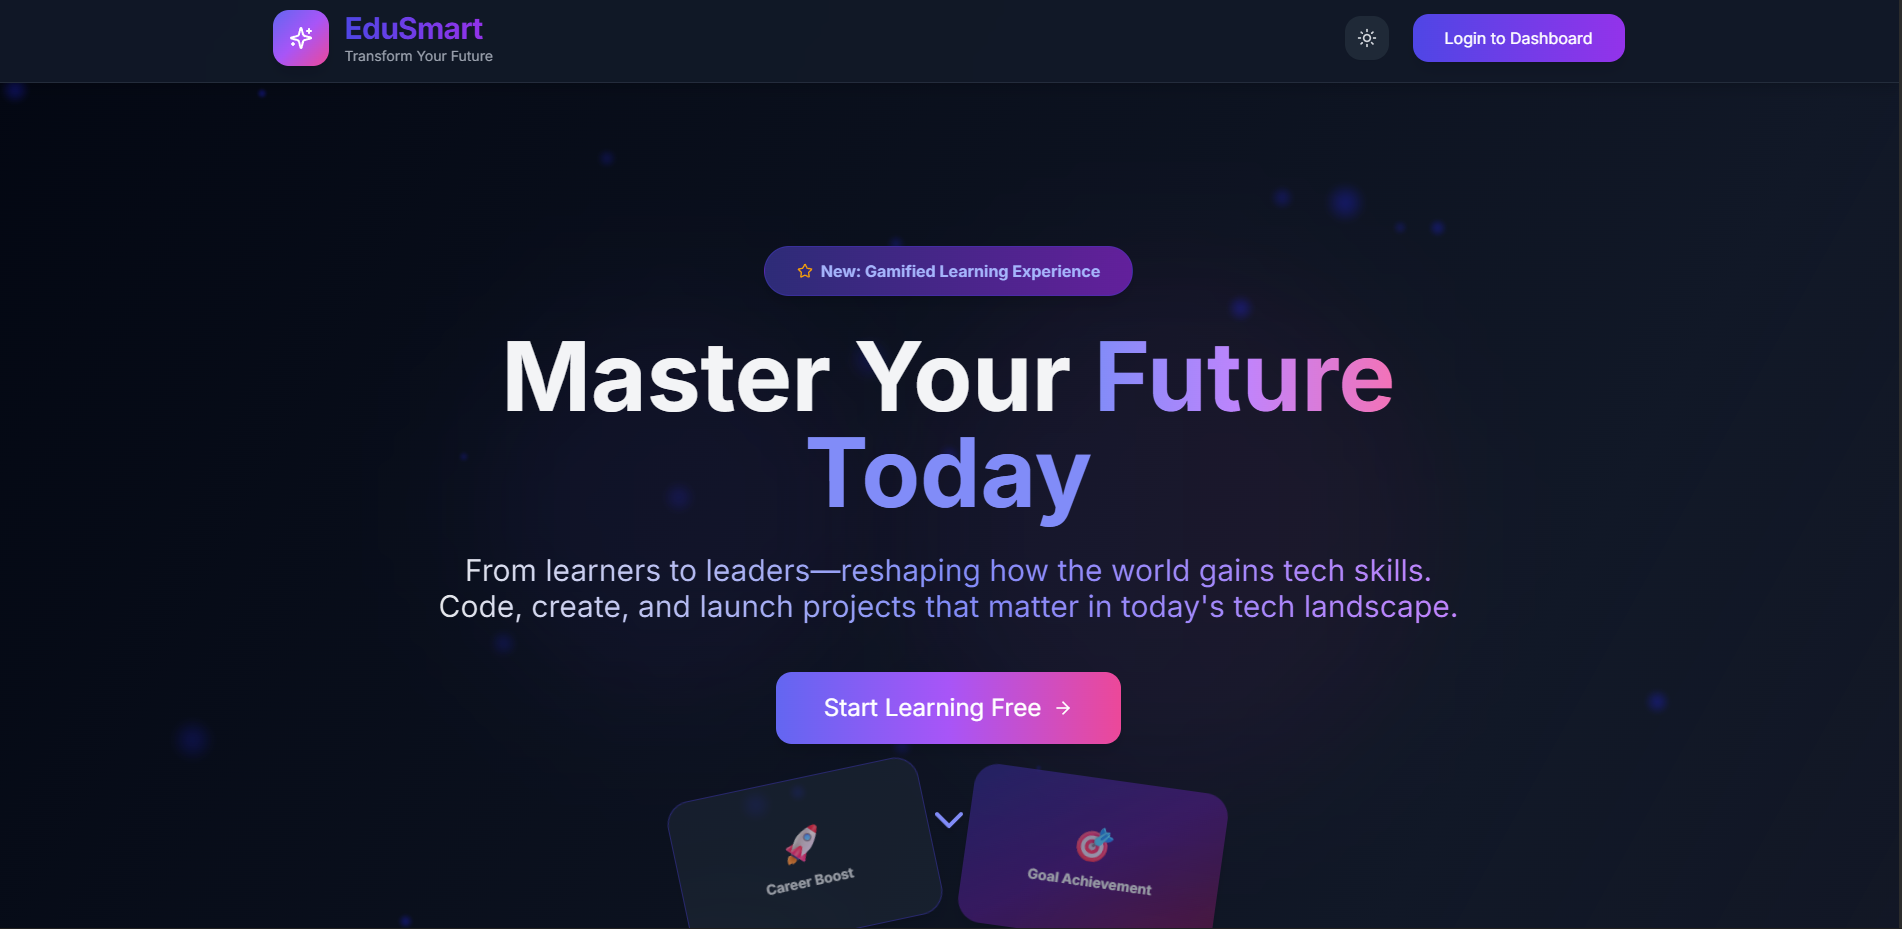
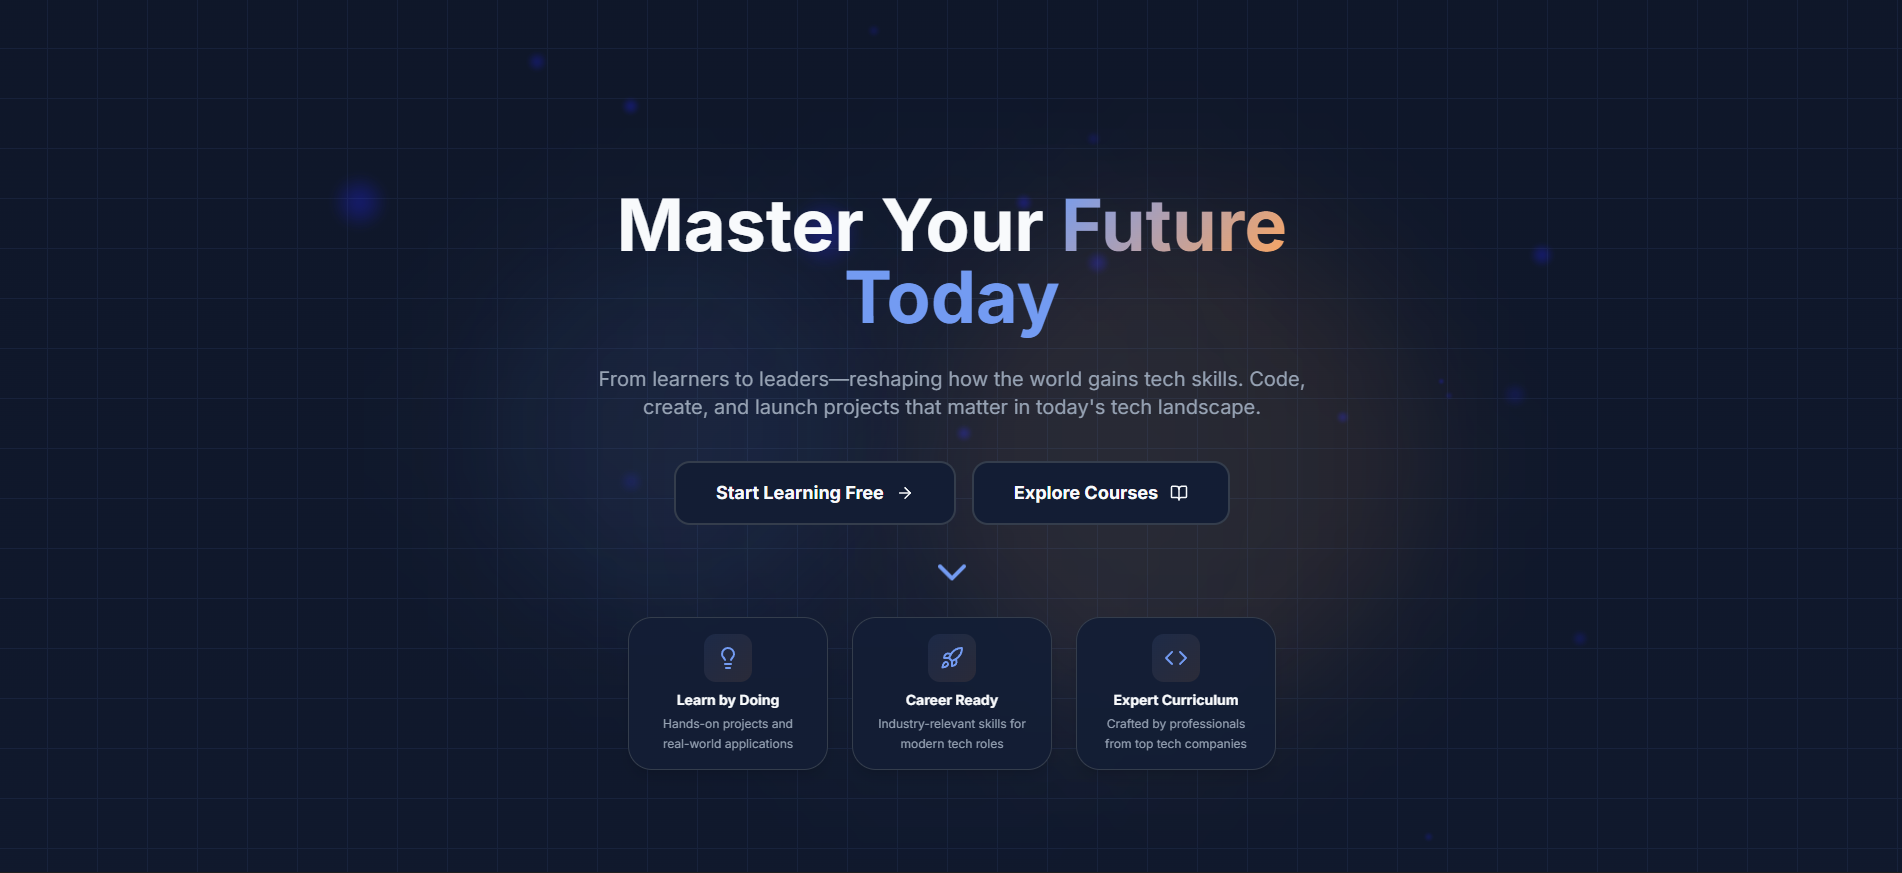
Updated edusmart and project magnification

diff --git a/src/sections/Projects.jsx b/src/sections/Projects.jsx
@@ -31,11 +31,19 @@ const projects = [
   {
     title: "EduSmart",
     description:
-      "A gamified learning platform with interactive lessons, quizzes, achievements, XP system, and analytics dashboard to make education engaging and personalized.",
+      "An AI powered gamified learning platform with interactive lessons, quizzes, achievements, XP system, and analytics dashboard to make education engaging and personalized.",
     image: "/projects/edusmart.png",
-    tags: ["React", "Vite", "Tailwind CSS", "NodeJS", "Express", "MongoDB"],
-    link: "https://edusmart-frontend.onrender.com/",
-    github: "https://github.com/MohammedAmin67/EduSmart",
+    tags: [
+      "React",
+      "Vite",
+      "Tailwind CSS",
+      "NodeJS",
+      "Express",
+      "MongoDB",
+      "Cloudinary",
+    ],
+    link: "https://edusmart-learn.vercel.app/",
+    github: "https://github.com/MohammedAmin67/edusmart_main",
   },
 
   {
@@ -108,7 +116,7 @@ export const Projects = () => {
                 <img
                   src={project.image}
                   alt={project.title}
-                  className="w-full h-full object-cover transition-transform duration-700 group-hover:scale-110"
+                  className="w-full h-full object-cover transition-transform duration-700 group-hover:scale-103"
                 />
 
                 <div
